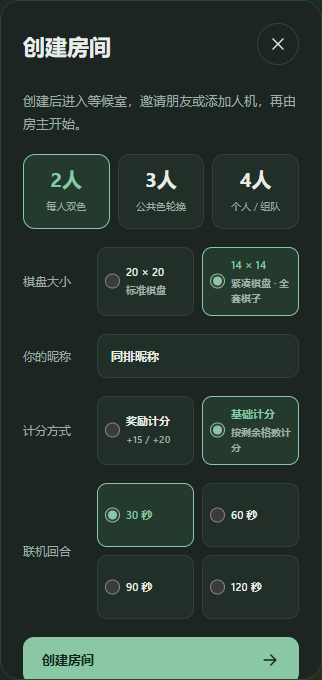
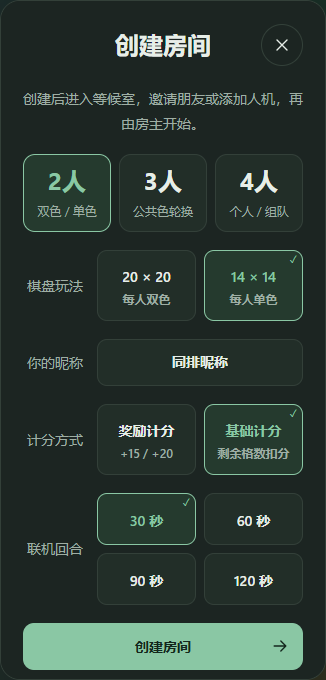
feat: center UI typography and split duo and duel modes

diff --git a/public/typography.css b/public/typography.css
@@ -1,0 +1,64 @@
+/* Shared hierarchy and centered composition, after home and match component styles. */
+:root {--type-display:clamp(36px,4vw,52px); --type-title:24px; --type-section:20px; --type-emphasis:16px; --type-body:14px; --type-caption:12px; --type-micro:10px}
+body {font-size:var(--type-body); line-height:1.6}
+button,.button,.text-button,.tool-button,.github-link {text-align:center}
+.button,.text-button,.tool-button,.github-link {justify-content:center}
+.button {position:relative; font-size:var(--type-body); padding-inline:38px; line-height:1.5}
+.button .icon {position:absolute; right:12px; top:50%; transform:translateY(-50%); margin:0}
+.button.wide {justify-content:center; text-align:center}
+h1,h2,h3 {text-align:center; line-height:1.4}
+.hero h1 {font-size:var(--type-display); text-align:center}
+.hero-copy .lead {font-size:var(--type-body); text-align:center; margin-inline:auto}
+.hero-copy .quick-rules {justify-content:center}
+.section-heading {align-items:center; justify-content:center; text-align:center}
+.section-heading h2,.recovery-section h2,.room-menu .lobby-aside h2,.result-summary h3 {font-size:var(--type-section)}
+.entry-card {align-items:flex-start; justify-content:center; text-align:center; min-height:300px; padding:24px}
+.entry-copy {width:100%; margin-top:0; align-items:center; text-align:center; gap:10px}
+.entry-copy>strong {font-size:var(--type-title); line-height:1.4}
+.entry-copy>span {font-size:var(--type-body); max-width:260px; text-align:center; line-height:1.7}
+.entry-card .entry-art {left:50%; right:auto; bottom:-6px; width:170px; max-width:none; transform:translateX(-50%)}
+.entry-card .entry-arrow {left:auto; right:18px; bottom:18px}
+@media(hover:hover) and (pointer:fine) {.entry-card:hover:not(:disabled) .entry-art {transform:translateX(-50%) translateY(-3px) rotate(-2deg)}}
+@media(prefers-reduced-motion:reduce) {.entry-card:hover:not(:disabled) .entry-art {transform:translateX(-50%)}}
+#modal {font-size:var(--type-body)}
+.modal-heading {position:relative; display:grid; grid-template-columns:44px minmax(0,1fr) 44px; align-items:center; gap:8px; min-height:44px; margin-bottom:20px}
+.modal-heading>h2,.modal-heading>div {grid-column:2; grid-row:1; min-width:0; text-align:center}
+.modal-heading h2 {font-size:var(--type-title); font-weight:650; line-height:1.4; margin:0; text-align:center}
+.modal-heading>#close-modal {grid-column:3; grid-row:1; justify-self:end}
+.modal-heading .eyebrow {font-size:var(--type-caption); text-align:center; margin-bottom:4px}
+.setup-intro,.room-menu .lobby-intro p,.room-lifecycle,.rules-content p,.result-summary>p,.recovery-section p,.active-room p {font-size:var(--type-body); font-weight:400; line-height:1.75; text-align:center}
+.room-menu .lobby-aside>p,.room-menu .lobby-buttons .fine,.menu-error {font-size:var(--type-body); line-height:1.75; text-align:center}
+.rules-content>section {display:grid; grid-template-columns:minmax(0,1fr); gap:6px; margin-bottom:20px; text-align:center}
+.rules-content>section>b {font-size:var(--type-caption); padding:0}
+.rules-content>.fine {font-size:var(--type-caption)}
+.setup-form .field-label {font-size:var(--type-body); font-weight:500; text-align:center}
+.setup-form .setup-input-row input {font-size:var(--type-body); text-align:center}
+.setup-modes button {align-items:center; justify-content:center; text-align:center}
+.setup-modes strong {font-size:var(--type-title); line-height:1.25}
+.setup-modes span {font-size:var(--type-caption)}
+.setup-form .choice-card,.setup-form .seat-options .choice-card {position:relative; display:flex; align-items:center; justify-content:center; padding:15px 8px 12px; min-height:52px; font-size:var(--type-body); line-height:1.5; text-align:center}
+.setup-form .choice-card input {position:absolute; inset:0; width:100%; height:100%; margin:0; padding:0; opacity:0; cursor:inherit}
+.setup-form .choice-card>span {width:100%; justify-items:center; text-align:center; pointer-events:none}
+.setup-form .choice-card small {font-size:var(--type-caption); text-align:center; line-height:1.5}
+.setup-form .choice-card:has(input:checked)::after {content:'✓'; position:absolute; right:5px; top:1px; font-size:var(--type-micro); pointer-events:none}
+.seat-config>span {font-size:var(--type-body)}
+.local-seats legend {font-size:var(--type-caption); text-align:center; margin-inline:auto}
+.room-menu .lobby-buttons {justify-content:center}
+.room-menu .lobby-code {justify-content:space-between; text-align:center}
+.room-menu .lobby-code .button,.recovery-actions .button {font-size:var(--type-body); text-align:center}
+.recovery-actions {justify-content:center}
+.active-room>div {text-align:center}
+.site-header .brand strong,.match-header .brand strong {font-size:var(--type-section)}
+.match-context strong {font-size:var(--type-section)}
+.match-context>span,.match-header .text-button,.game-shell-v2 .auxiliary-actions .text-button {font-size:var(--type-caption)}
+.players-heading {position:relative; justify-content:center; min-height:24px; padding-inline:42px}
+.players-heading h2 {font-size:var(--type-emphasis); text-align:center}
+.players-heading>span {position:absolute; right:8px; font-size:var(--type-caption)}
+.game-shell-v2 .player-ident strong {font-size:var(--type-emphasis)}
+.game-shell-v2 .player-state,.game-shell-v2 .player-affiliation,.game-shell-v2 .player-colors>span {font-size:var(--type-caption)}
+.game-shell-v2 .player-score strong {font-size:var(--type-title)}
+.game-shell-v2 .transform-tools .tool-button,.game-shell-v2 .commit-actions .button {font-size:var(--type-body)}
+.result-summary>span,.result-scores li,#modal-log .move-log li {font-size:var(--type-body)}
+.selected-piece-meta strong {font-size:var(--type-emphasis)}
+#hint-sequence,.game-shell-v2 #game-shortcuts,#modal-log .move-log small {font-size:var(--type-caption)}
+.piece>span {font-size:var(--type-micro)}

diff --git a/public/index.html b/public/index.html
@@ -10,6 +10,7 @@
   <link rel="icon" href="/favicon.svg" type="image/svg+xml">
   <link rel="stylesheet" href="/style.css">
   <link rel="stylesheet" href="/game.css">
+  <link rel="stylesheet" href="/typography.css">
   <script type="module" src="/app.mjs"></script>
 </head>
 <body>

diff --git a/docs/API.md b/docs/API.md
@@ -4,14 +4,14 @@ All HTTP API responses are JSON except the event stream. Errors are `{ "error": 
 
 Room codes are strings containing exactly six ASCII digits (`000000`–`999999`), generated with cryptographic randomness and retried on active-room collisions. Preserve leading zeros in URLs, snapshots and saved sessions; mobile joining uses a numeric keyboard. Alphanumeric codes and malformed invitation links are no longer accepted. Deploy client and server together; the service restart discards previous in-memory rooms as usual.
 
-Room creation additionally accepts `boardSize: 20 | 14` (default 20). Size 14 requires `players: 2` / `mode: duo`; all four colors retain their full 21-piece inventory. Waiting snapshots and active game data include `boardSize`, preserved for rematches and bot jobs. V2 replay exports include `boardSize`; V1 and older V2 records without that field remain 20×20. Frontend selection, preview coordinates, exhaustive move search and worker evaluation use this size. Publish shared rules, browser modules and server together.
+Room creation accepts `boardSize: 20 | 14` (default 20). Two-player size 20 uses `mode: duo` with two colors per person; size 14 defaults to `mode: duel` with one color per person, blue/yellow starting at opposite corners. Every color retains 21 pieces. Explicit `duel` requires two players and size 14. Snapshots/rematches/replays retain size and mode. Old V1/V2 records without size default to 20; older explicit `duo`/14 records remain readable with four colors. Publish shared rules, browser modules and server together.
 
 ## Routes
 
 | Method | Path | Authentication | Result |
 | --- | --- | --- | --- |
 | GET | /api/health | none | Health and application version |
-| POST | /api/rooms | none | Create with name, players (2/3/4), mode (duo/trio/classic/teams), scoring (simple/bonus), turnSeconds (30/60/90/120) |
+| POST | /api/rooms | none | Create with name, players (2/3/4), mode (duo/duel/trio/classic/teams), scoring (simple/bonus), turnSeconds (30/60/90/120) |
 | POST | /api/rooms/:code/join | none | Join with name |
 | GET | /api/rooms/:code | Bearer | Current personalized snapshot |
 | GET | /api/rooms/:code/events | Bearer | Authenticated fetch/SSE stream |
@@ -36,7 +36,7 @@ On HTTPS/localhost, Web Locks protect automatic reconnection from taking over a 
 
 Move/resign require the exact game revision AND room round number. The revision increments for successful moves or resignations. A separate monotonic room `version` orders snapshots, including presence changes; clients ignore older snapshots. A new round increments `round`, preventing an old opening command from replaying in a rematch.
 
-Modes must match seat count: duo=2, trio=3, classic=4, teams=4. Omitted mode defaults to the legacy count-based mode. Teams are seats [0,2] versus [1,3]; each seat still owns one color. Snapshots include `mode` and player `kind: human | bot`; bots additionally have `level: standard` and connected=false. Bot seats do not require connection to start and cannot be authorized or promoted to host. Seat recovery remains human-only.
+Modes must match seat count: duo=2, duel=2 (14 only), trio=3, classic=4, teams=4. Omitted mode defaults to the legacy count-based mode. Teams are seats [0,2] versus [1,3]; each seat still owns one color. Snapshots include `mode` and player `kind: human | bot`; bots additionally have `level: standard` and connected=false. Bot seats do not require connection to start and cannot be authorized or promoted to host. Seat recovery remains human-only.
 
 Replay exports are version 2, with `mode`, sanitized `seats` (kind/level only), and move `source: human | bot | timeout`; `automatic` is source != human. No tokens or listeners are serialized. The reader accepts v1 records, mapping old automatic moves to timeout and choosing the legacy mode by player count. History is validated by replaying legal intents, including controller and source/seat compatibility.
 

diff --git a/docs/DUO14.md b/docs/DUO14.md
@@ -1,23 +1,24 @@
-# 14×14 双人双色与设置对齐 · 2026-10-25
+# 两人玩法与统一排版 · 2026-10-25
 
-同屏和创建房间均可在选择两人后，切换20×20标准棋盘或14×14紧凑棋盘。两位玩家分别控制蓝红、黄绿，仍按蓝、黄、红、绿轮流落子，四色库存各21块，总共84块不变。14×14从实际四角开始，保持原有连接、阻挡、跳过和计分规则。
+同屏和创建房间选择“两人”后，有两种玩法：
 
-棋盘尺寸贯穿规则、穷尽搜索、提示与机器人、拖动/旋转/翻转边界、浮动操作、房间快照、恢复、悔棋、再开和棋谱。API使用`boardSize: 14 | 20`，14仅允许两人；省略时默认20。新V2棋谱带尺寸，旧V1/V2记录继续按20×20读取。
+| 棋盘 | 颜色分配 | 起点 | 棋子 |
+| --- | --- | --- | --- |
+| 20×20 | 每人双色：蓝红 / 黄绿 | 四个角 | 每色21块，共84块 |
+| 14×14 | 每人单色：蓝 / 黄 | 左上 / 右下 | 每色21块，共42块 |
 
-设置面板统一标签列与控件列，昵称及房间号与输入框同排；人数、棋盘、四人玩法、计分、回合时限和人机席位均直接显示可见选项。单选框支持键盘操作，改变棋盘或玩法后保留焦点。昵称在新打开页面时随机生成，手工修改在本次设置过程中保留，不再从旧的昵称存储项覆盖默认昵称。
+单色玩法使用`mode: duel`，双色使用`mode: duo`。API在14×14未指定模式时默认单色；明确的早期`duo`/14棋谱保留四色规则，旧V1/V2无尺寸记录仍按20×20读取。原三人公共色、四人个人/组队玩法保持原样。
 
-验证记录：
+棋盘尺寸和颜色数量贯穿规则、穷尽搜索、提示与机器人、拖动/变换边界、快照、恢复、悔棋、再开和棋谱。返回设置后同步已恢复对局的人数、棋盘和席位，避免恢复14×14后误用四人配置。
 
-- `npm run verify`：78项原生测试、语法/导入检查和构建通过。
-- `npm run test:browser`：45项测试通过，包含原有模式/布局/触摸/恢复及4项14×14专项测试。最后的标签字重和选项焦点微调后，4项专项再次通过。
-- 独立穷尽枚举对照覆盖14×14的所有位置和8种变换；完整机器人对局校验面积守恒、终局和棋谱恢复。
-- 实际本地HTTP/SSE、浏览器Worker、服务端机器人、四角落子、手机拖动、竖横屏、悔棋、导出/导入与再开均已验证。
-- 人工检查桌面设置、手机浅/深色设置和14×14对局截图。浏览器触屏模拟不代替实体Android/iOS验收。
+统一排版由最后加载的`public/typography.css`管理。按钮文字、页面/弹窗标题、弹窗说明和选项文案居中；主按钮图标独立放置，避免图标使文字偏心。关闭按钮使用对称留白，弹窗标题保持居中。字号分为24px标题、20px分区、16px强调、14px正文/控件、12px辅助、10px密集标签，首页主标题保留响应式展示字号。深浅色沿用现有主题变量。
 
-预览：
+昵称与输入框同排，设置选项直接可见、支持键盘操作。新页面生成随机昵称，手工修改在本次设置过程中保留。
+
+验证：78项原生测试、45项浏览器测试通过。覆盖单色/双色库存与计分、14×14独立穷尽枚举、完整机器人对局、旧棋谱、同屏/联机/恢复/再开及鼠标/触屏。新增检查360/390/768/1440宽度的标题几何中心、按钮文字实际中心、说明居中和字号层级，并人工检查浅/深色设置、首页和单色对局截图。实体Android/iOS验收仍需实际设备。
 
 ![桌面设置](screenshots/duo14/setup-light-1440.png)
 
 ![手机设置](screenshots/duo14/setup-light-390.png)
 
-![14×14对局](screenshots/duo14/game-desktop.png)
+![14×14单色对局](screenshots/duo14/game-desktop.png)

diff --git a/README.md b/README.md
@@ -24,12 +24,12 @@ npm run build   # 生成 dist/，其中也可直接 npm start
 
 大厅提供“同屏玩法、创建房间、加入房间”三个入口，各自打开设置弹窗。同屏支持配置人机；联机创建/加入后先进入等候室，房主可添加人机并开始对局。关闭等候室弹窗仍保留房间，使用“返回房间”继续；明确退出才释放席位。
 
-两人双色可以选择20×20或14×14棋盘，四色各21块棋子始终完整保留。设置使用直接可见的单选框；昵称与输入框同排，新打开页面会生成随机昵称，也可以自行修改。
+两人玩法分为20×20每人双色、14×14每人单色，每色均保留21块棋子。设置使用直接可见的单选框，按钮文字、标题和弹窗说明居中，统一字号层级；昵称与输入框同排，新打开页面会生成随机昵称，也可以自行修改。
 
 ## V1.1 功能
 
 - 20×20 棋盘、四色各21种棋形。选择棋子后按住预览的任意实心小格拖动，短按旋转；翻转/键盘操作保留，完整棋子限制在棋盘内，松手后再确认落子。
-- 2人每人双色；3人轮流操作公共绿色；4人可各自计分或蓝红对黄绿组队，按队伍双色总分结算。
+- 2人20×20每人双色、14×14每人单色；3人轮流操作公共绿色；4人可各自计分或蓝红对黄绿组队，按队伍双色总分结算。
 - 落点提示优先大块，遍历旋转/翻转，连续点击切换不重复方案，显示方案序号。
 - 本地和联机均支持标准机器人，与真人混合对战；考虑面积、扩张空间、后续连接点和队友利益。
 - 基础/奖励计分、无合法落点自动跳过、认输、结算、再来一局。

diff --git a/docs/GAME_RULES.md b/docs/GAME_RULES.md
@@ -2,7 +2,7 @@
 
 ## 目标与组件
 
-在棋盘上尽可能放出自己的棋子。默认棋盘为20×20；两人双色玩法也可选择14×14。两种尺寸都使用蓝、黄、红、绿四色，每色21块，合计89小格：1格1块、2格1块、3格2块、4格5块、5格12块。
+在棋盘上尽可能放出自己的棋子。默认20×20使用蓝、黄、红、绿四色；两人14×14使用蓝、黄两色。每色均为21块、合计89小格：1格1块、2格1块、3格2块、4格5块、5格12块。
 
 ## 落子
 
@@ -16,9 +16,9 @@
 
 ## 2人
 
-玩家1控制蓝+红，玩家2控制黄+绿。同一玩家的两色分别从对角出发，规则独立，一色无法行动不影响另一色。结算时先分别计分，再将两色成绩相加。
+20×20：玩家1控制蓝+红，玩家2控制黄+绿。同一玩家的两色分别从对角出发，规则独立，一色无法行动不影响另一色。结算时先分别计分，再将两色成绩相加。
 
-可选20×20标准棋盘或14×14紧凑棋盘。14×14仍保留四色全部84块棋子，每色21块，不减少库存；四色分别从新棋盘的四个角开始。较小的空间会更早形成阻挡，无处可放的棋子仍按原计分规则扣分。该尺寸支持同屏、联机、机器人、悔棋、恢复和棋谱。
+14×14：每人控制一色，蓝色从左上角、黄色从右下角出发，双方交替行动；共42块，每色仍是完整21块。无处可放的棋子仍按原计分规则扣分。两种玩法都支持同屏、联机、机器人、悔棋、恢复和棋谱。早期14×14双色棋谱按记录保留原四色规则。
 
 ## 3人
 

diff --git a/docs/TESTING.md b/docs/TESTING.md
@@ -8,7 +8,7 @@ Coverage includes piece inventory/area, all transforms, exhaustive search oracle
 
 ## Direct browser suites
 
-`tests/board-size.test.mjs` covers 14×14 inventory/scoring, exhaustive search against a separate all-position oracle, bot termination, legacy replay sizing and full-shape transform/drag bounds. `tests/browser_duo14.mjs` covers aligned desktop/portrait radio forms, random nicknames, keyboard option focus, four-color local play, touch/landscape geometry, undo/restore/export/import/rematch, real SSE recovery and online bots at size 14. Setup controls are native radios rather than selects.
+`tests/board-size.test.mjs` covers 14×14 inventory/scoring, exhaustive search against a separate all-position oracle, bot termination, legacy replay sizing and full-shape transform/drag bounds. `tests/browser_duo14.mjs` covers aligned desktop/portrait radio forms, random nicknames, keyboard option focus, two-color local play, touch/landscape geometry, undo/restore/export/import/rematch, real SSE recovery and online bots at size 14. Setup controls are native radios rather than selects.
 
 Use an existing Node Playwright package and Chromium/Edge installation. If normally resolvable, run `npm run test:browser`. For an external installation on Windows:
 
